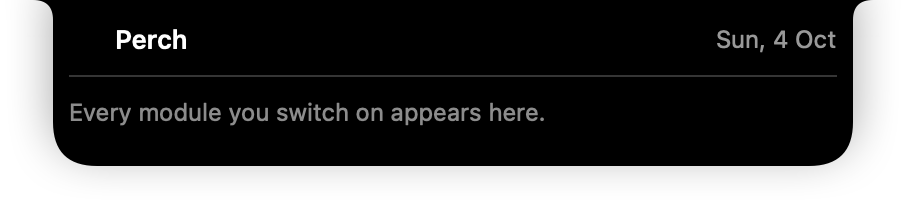
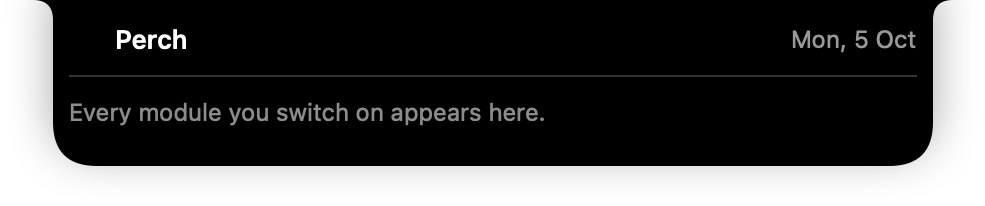
docs: show keyboard shortcuts in the README and on the site (#108)
A Settings ▸ Keyboard Shortcuts picture, rendered by make screenshots
from the real view with the suggested keys filled in, in the README's
Getting started and in a new Keyboard block on the site. island-home.png
re-rendered at the island's new width.

diff --git a/Tests/PerchUITests/IslandSnapshots.swift b/Tests/PerchUITests/IslandSnapshots.swift
@@ -1,4 +1,5 @@
 import AppKit
+import KeyboardShortcuts
 import PerchCore
 import SwiftUI
 import XCTest
@@ -99,6 +100,43 @@ final class IslandSnapshots: XCTestCase {
         )
         XCTAssertGreaterThan(image.drawnPixels, 0, "home with rows is blank")
         try write(image, named: "island-home-rows")
+    }
+
+    /// Settings ▸ Keyboard Shortcuts, with the suggested keys filled in so
+    /// the picture shows what pressing the button does. Whatever was set
+    /// before is put back.
+    func test_capturesTheKeyboardShortcutsPane() throws {
+        let names = SuggestedShortcuts.all.map(\.name)
+        let saved = names.map { KeyboardShortcuts.getShortcut(for: $0) }
+        defer {
+            for (name, shortcut) in zip(names, saved) {
+                KeyboardShortcuts.setShortcut(shortcut, for: name)
+            }
+        }
+        for name in names { KeyboardShortcuts.setShortcut(nil, for: name) }
+        SuggestedShortcuts.apply()
+
+        let host = NSHostingView(rootView: KeyboardShortcutsSettings())
+        host.frame = CGRect(x: 0, y: 0, width: 520, height: 510)
+        let window = NSWindow(
+            contentRect: host.frame,
+            styleMask: [.borderless],
+            backing: .buffered,
+            defer: false
+        )
+        window.appearance = NSAppearance(named: .darkAqua)
+        window.contentView = host
+        host.layoutSubtreeIfNeeded()
+        host.displayIfNeeded()
+
+        let rep = try XCTUnwrap(host.bitmapImageRepForCachingDisplay(in: host.bounds))
+        host.cacheDisplay(in: host.bounds, to: rep)
+        XCTAssertGreaterThan(rep.drawnPixels, 0, "keyboard shortcuts pane is blank")
+
+        guard let directory = captureDirectory else { return }
+        try FileManager.default.createDirectory(at: directory, withIntermediateDirectories: true)
+        let data = try XCTUnwrap(rep.representation(using: .png, properties: [:]))
+        try data.write(to: directory.appendingPathComponent("settings-keyboard.png"))
     }
 
     func test_capturesThePeekPresentations() throws {

diff --git a/Website/index.html b/Website/index.html
@@ -342,6 +342,19 @@
       </div>
     </div>
 
+    <div class="block flip">
+      <div class="copy">
+        <p class="eyebrow">Keyboard</p>
+        <h3>Never reach for the mouse.<span class="soft">One shortcut, then one letter.</span></h3>
+        <p class="body">Press ⌃⌥P from any app and the island opens. Every button shows its letter &mdash; C for the clipboard, F for focus, A to capture an area, S for the screen &mdash; so you learn the keys by looking. Escape closes it, and your typing goes straight back to the app you were in.</p>
+        <p class="body" style="font-size:.9rem;color:var(--sub)">Every Perch shortcut lives on one page in Settings. One button fills in a suggested set, and only where you have not chosen your own &mdash; Perch never takes a key you did not ask for.</p>
+      </div>
+      <figure class="visual shot">
+        <img src="assets/img/shots/settings-keyboard.png" alt="Settings, Keyboard Shortcuts: Open Perch ⌃⌥P, Clipboard history ⌃⌥V, Start or pause focus ⌃⌥F, Show the camera ⌃⌥M, Join the current meeting ⌃⌥J, and a Use suggested shortcuts button" loading="lazy" width="420" height="412">
+        <figcaption>Settings ▸ Keyboard Shortcuts, rendered from the app’s own view.</figcaption>
+      </figure>
+    </div>
+
   </div>
 </section>
 

diff --git a/README.md b/README.md
@@ -116,10 +116,16 @@ on <http://localhost:8000>.
 | **Click** it | Keeps it open while you use it; click again to close |
 | **Drag a file** onto it | The shelf catches it |
 | **Menu bar icon → Settings…** | Switch modules on and off, one by one |
+| **⌃⌥P**, then a letter | Opens Perch from any app; C clipboard, F focus, A area… Escape closes. Set it up in Settings ▸ Keyboard Shortcuts |
 
 <p align="center">
   <img src="Website/assets/img/shots/island-home-rows.png" alt="The Perch home surface in three labelled groups — Quick access: Clipboard C, Focus F; Capture: Area A, Window W, Screen S, Text T, Pin P; Tools: Colour O, Measure R, Scan Q — each button showing its key, and a settings gear beside the date" width="492">
   <br><sub>The home surface — hover the notch, or press your Open Perch shortcut and then the letter on any button. The gear opens Settings.</sub>
+</p>
+
+<p align="center">
+  <img src="Website/assets/img/shots/settings-keyboard.png" alt="Settings, Keyboard Shortcuts: Open Perch ⌃⌥P, Clipboard history ⌃⌥V, Start or pause focus ⌃⌥F, Show the camera ⌃⌥M, Join the current meeting ⌃⌥J, and a Use suggested shortcuts button" width="420">
+  <br><sub>Settings ▸ Keyboard Shortcuts — press <b>Use suggested shortcuts</b>, then ⌃⌥P opens Perch from any app.</sub>
 </p>
 
 ---
